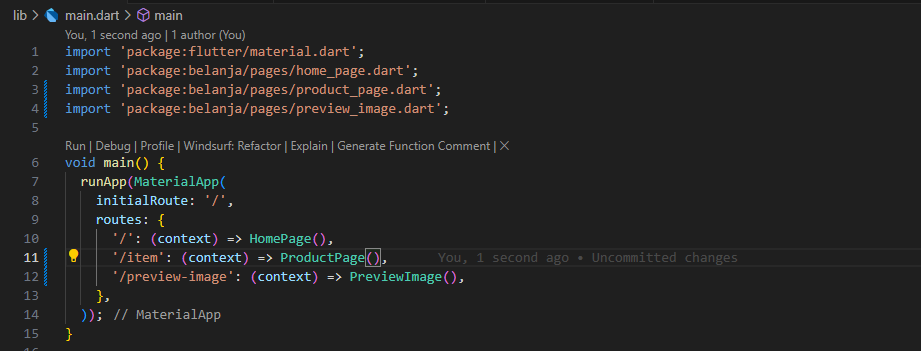
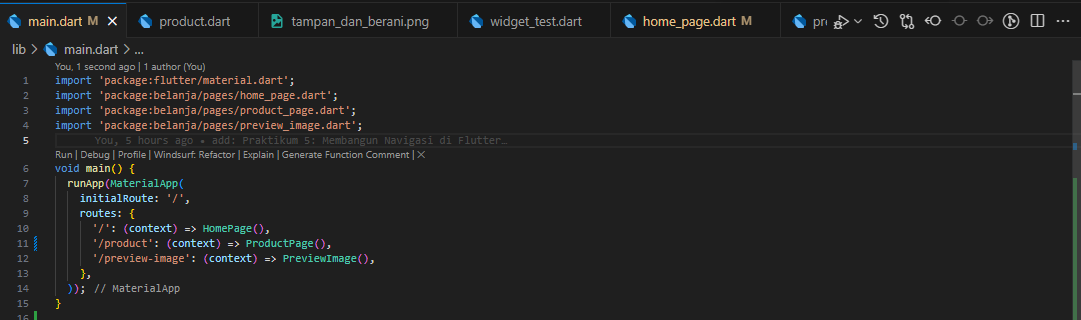
add: Tugas praktikum 2, no 3-5

diff --git a/codelab06_flutter/belanja/lib/pages/home_page.dart b/codelab06_flutter/belanja/lib/pages/home_page.dart
@@ -4,6 +4,8 @@ import 'package:belanja/models/product.dart';
 import 'package:belanja/widgets/footer_section.dart';
 
 class HomePage extends StatelessWidget {
+  const HomePage({super.key});
+  
   @override
   Widget build(BuildContext context) {
     final List<Product> products = [
@@ -52,7 +54,10 @@ class HomePage extends StatelessWidget {
     return Column(
       children: [
         Expanded(child: ListProduct(products: products)),
-        FooterSection(nama: '© Copyright 2025 - Dedy Bayu Setiawan', nim: '2341720041'),
+        FooterSection(
+          nama: '© Copyright 2025 - Dedy Bayu Setiawan',
+          nim: '2341720041',
+        ),
       ],
     );
   }

diff --git a/codelab06_flutter/belanja/lib/widgets/list_product/list_product.dart b/codelab06_flutter/belanja/lib/widgets/list_product/list_product.dart
@@ -31,7 +31,7 @@ class ListProduct extends StatelessWidget {
             final product = products[index];
             return InkWell(
               onTap: () {
-                Navigator.pushNamed(context, '/item', arguments: product);
+                Navigator.pushNamed(context, '/product', arguments: product);
               },
               child: Card(
                 child: Container(

diff --git a/codelab06_flutter/belanja/lib/pages/product_page.dart b/codelab06_flutter/belanja/lib/pages/product_page.dart
@@ -8,6 +8,8 @@ import 'package:belanja/widgets/product_page/title_section.dart';
 import 'package:belanja/utils/price_formatter.dart';
 
 class ProductPage extends StatelessWidget {
+  const ProductPage({super.key});
+
   @override
   Widget build(BuildContext context) {
     final itemArgs = ModalRoute.of(context)!.settings.arguments as Product;

diff --git a/codelab06_flutter/belanja/lib/main.dart b/codelab06_flutter/belanja/lib/main.dart
@@ -8,7 +8,7 @@ void main() {
     initialRoute: '/',
     routes: {
       '/': (context) => HomePage(),
-      '/item': (context) => ProductPage(),
+      '/product': (context) => ProductPage(),
       '/preview-image': (context) => PreviewImage(),
     },
   ));
